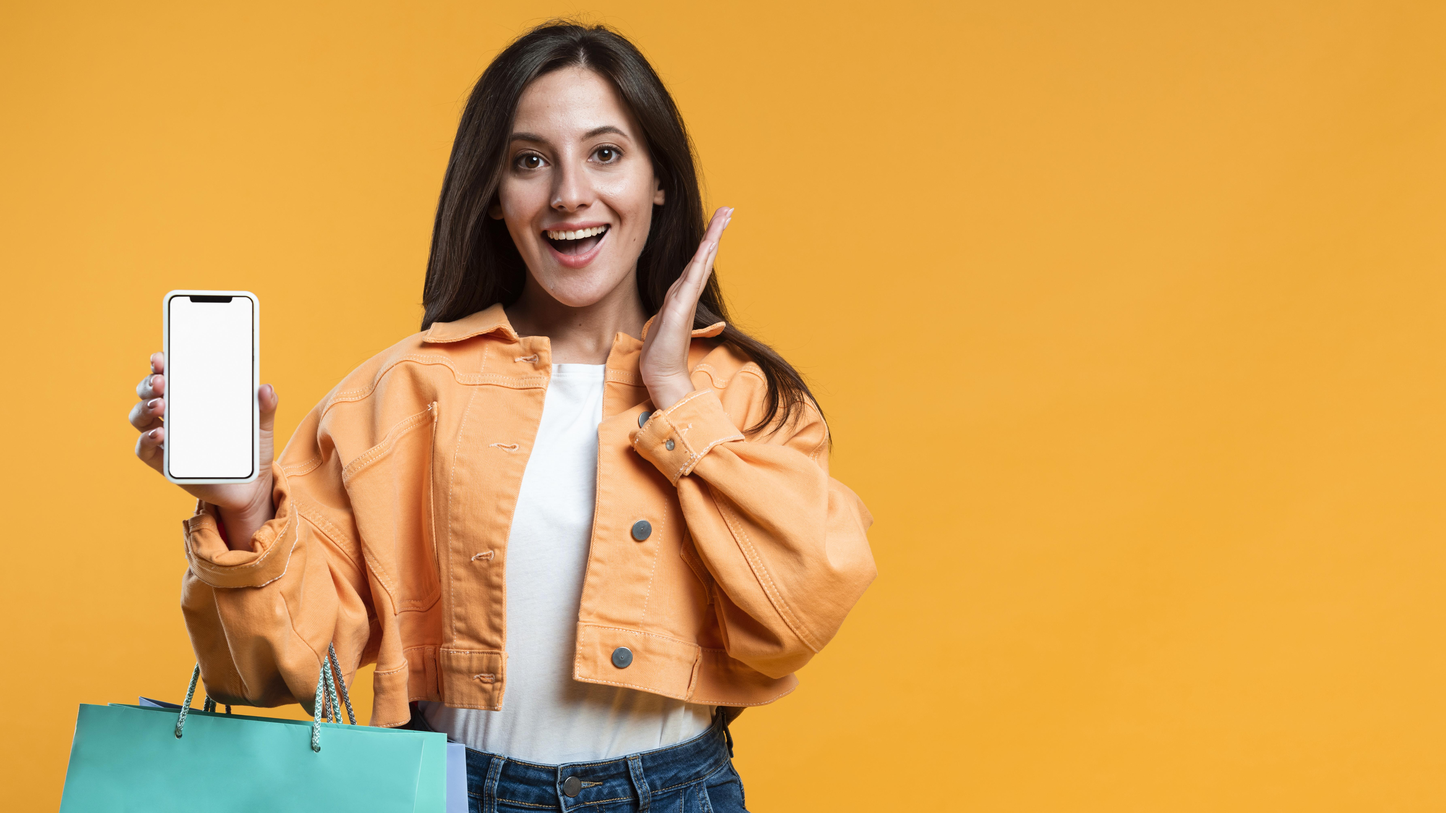
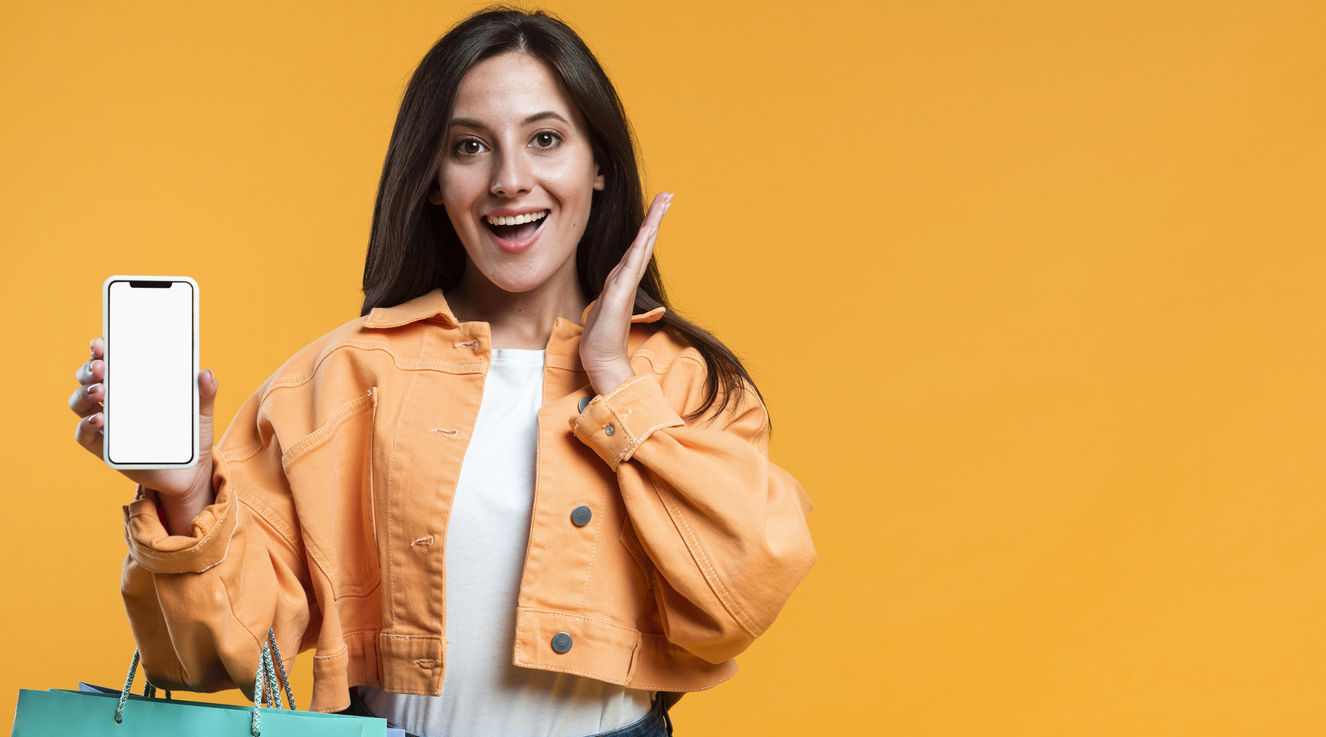
Add newsletter section, update footer, and UI improvements

Changed region(s): [[0.0, 0.0, 0.6228, 1.0]]

diff --git a/src/components/Footer.jsx b/src/components/Footer.jsx
@@ -1,0 +1,57 @@
+import React from 'react';
+
+const Footer = () => {
+  return (
+    <footer className="w-full flex flex-col items-center bg-white border-t border-gray-200 mt-12">
+      <div className="w-full max-w-6xl px-4 py-10 grid grid-cols-1 md:grid-cols-4 gap-8">
+        {/* Brand Section */}
+        <div className="flex flex-col items-start">
+          <div className="flex items-center mb-2">
+            <span className="text-2xl mr-2 text-indigo-600">⚡</span>
+            <span className="font-bold text-lg text-gray-800">brand</span>
+          </div>
+          <p className="text-gray-500 text-sm">
+            Lorem ipsum dolor sit amet consectetur, adipisicing elit. Rerum unde quaerat eveniet cumque accusamus atque qui error quo enim fugiat?
+          </p>
+        </div>
+        {/* Quick Links */}
+        <div>
+          <h3 className="font-semibold mb-2 text-gray-900">Quick Links</h3>
+          <ul className="text-gray-600 text-sm space-y-1">
+            <li><a href="#" className="hover:underline">Home</a></li>
+            <li><a href="#" className="hover:underline">Best Sellers</a></li>
+            <li><a href="#" className="hover:underline">Offers & Deals</a></li>
+            <li><a href="#" className="hover:underline">Contact Us</a></li>
+            <li><a href="#" className="hover:underline">FAQs</a></li>
+          </ul>
+        </div>
+        {/* Need Help? */}
+        <div>
+          <h3 className="font-semibold mb-2 text-gray-900">Need Help?</h3>
+          <ul className="text-gray-600 text-sm space-y-1">
+            <li><a href="#" className="hover:underline">Delivery Information</a></li>
+            <li><a href="#" className="hover:underline">Return & Refund Policy</a></li>
+            <li><a href="#" className="hover:underline">Payment Methods</a></li>
+            <li><a href="#" className="hover:underline">Track your Order</a></li>
+            <li><a href="#" className="hover:underline">Contact Us</a></li>
+          </ul>
+        </div>
+        {/* Follow Us */}
+        <div>
+          <h3 className="font-semibold mb-2 text-gray-900">Follow Us</h3>
+          <ul className="text-gray-600 text-sm space-y-1">
+            <li><a href="#" className="hover:underline">Instagram</a></li>
+            <li><a href="#" className="hover:underline">Twitter</a></li>
+            <li><a href="#" className="hover:underline">Facebook</a></li>
+            <li><a href="#" className="hover:underline">YouTube</a></li>
+          </ul>
+        </div>
+      </div>
+      <div className="w-full border-t border-gray-100 py-4 flex justify-center">
+        <span className="text-gray-400 text-xs text-center">Copyright 2025 © PrebuiltUI All Right Reserved.</span>
+      </div>
+    </footer>
+  );
+};
+
+export default Footer;

diff --git a/src/components/BottomBanner.jsx b/src/components/BottomBanner.jsx
@@ -37,22 +37,22 @@ const BottomBanner = () => {
       {/* ✅ Overlay Content */}
       <div className="absolute inset-0 flex flex-col items-center md:items-end md:justify-center pt-16 md:pt-0 md:pr-24">
         <div>
-          <h1 className="text-2xl md:text-3xl font-semibold text-primary mb-6">
+          <h1 className="text-2xl md:text-3xl font-semibold text-primary mb-6 transition-all duration-300 hover:scale-105 hover:text-blue-600 cursor-pointer">
             Why We Are the Best?
           </h1>
 
           {features.map((feature, index) => (
-            <div key={index} className="flex items-start gap-4 mt-4">
+            <div key={index} className="flex items-start gap-4 mt-4 group">
               <img
                 src={feature.icon}
                 alt={feature.title}
-                className="w-9 md:w-11"
+                className="w-9 md:w-11 transition-transform duration-300 group-hover:scale-110 group-hover:rotate-3"
               />
               <div>
-                <h3 className="text-lg md:text-xl font-semibold">
+                <h3 className="text-lg md:text-xl font-semibold transition-all duration-300 group-hover:text-blue-600 group-hover:scale-105 cursor-pointer">
                   {feature.title}
                 </h3>
-                <p className="text-gray-500/70 text-xs md:text-sm">
+                <p className="text-gray-500/70 text-xs md:text-sm transition-all duration-300 group-hover:text-gray-700 group-hover:scale-102 cursor-pointer">
                   {feature.description}
                 </p>
               </div>

diff --git a/src/components/NewsLetter.jsx b/src/components/NewsLetter.jsx
@@ -1,0 +1,30 @@
+import React from 'react';
+
+const NewsLetter = () => {
+    return (
+        <div className="w-full flex justify-center py-8 px-2">
+            <div className="bg-white rounded-2xl shadow border border-gray-200 w-full max-w-4xl p-8 flex flex-col items-center">
+                <h1 className="text-3xl md:text-4xl font-bold mb-2 text-center">Never Miss a Deal!</h1>
+                <p className="text-gray-500 text-base md:text-lg mb-6 text-center">
+                    Subscribe to get the latest offers, new arrivals, and exclusive discounts
+                </p>
+                <form className="flex w-full max-w-xl">
+                    <input
+                        className="flex-1 border border-gray-300 rounded-l-md px-4 py-3 text-gray-700 focus:outline-none focus:ring-2 focus:ring-indigo-200 text-base"
+                        type="email"
+                        placeholder="Enter your email id"
+                        required
+                    />
+                    <button
+                        type="submit"
+                        className="bg-[#00e51b] hover:bg-green-600 text-white font-semibold px-8 py-3 rounded-r-md transition-colors duration-200 text-base"
+                    >
+                        Subscribe
+                    </button>
+                </form>
+            </div>
+        </div>
+    );
+};
+
+export default NewsLetter;

diff --git a/src/App.jsx b/src/App.jsx
@@ -7,19 +7,20 @@ import Navbar from './components/Navbar';
 // Pages
 import Home from './pages/Home';
 import { Toaster } from 'react-hot-toast';
+import Footer from './components/Footer';
 
 const App = () => {
   const location = useLocation();
   const isSellerPath = location.pathname.includes("seller");
 
   return (
-    <div className="min-h-screen">
+    <div className="min-h-screen flex flex-col">
       {/* If seller path → hide Navbar, else show Navbar */}
       {isSellerPath ? null : <Navbar />}
 
       <Toaster />
 
-      <div className={`${isSellerPath ? "p-6" : "px-6 md:px-16 lg:px-24 xl:px-32"}`}>
+      <div className={`${isSellerPath ? "p-6" : "px-6 md:px-16 lg:px-24 xl:px-32"} flex-1`}>
         <Routes>
           {/* Normal user route */}
           <Route path='/' element={<Home />} />
@@ -27,6 +28,7 @@ const App = () => {
           {/* Later you can add seller routes here if needed */}
         </Routes>
       </div>
+      {!isSellerPath && <Footer />}
     </div>
   );
 };

diff --git a/src/pages/Home.jsx b/src/pages/Home.jsx
@@ -3,6 +3,7 @@ import MainBanner from '../components/MainBanner';
 import Categories from '../components/Categories';
 import BestSeller from '../components/BestSeller';
 import BottomBanner from '../components/BottomBanner';
+import NewsLetter from '../components/NewsLetter';
 
 const Home = () => {
   return (
@@ -11,6 +12,7 @@ const Home = () => {
       <Categories />
       <BestSeller />
       <BottomBanner />
+      <NewsLetter />
     </div>
   );
 };
